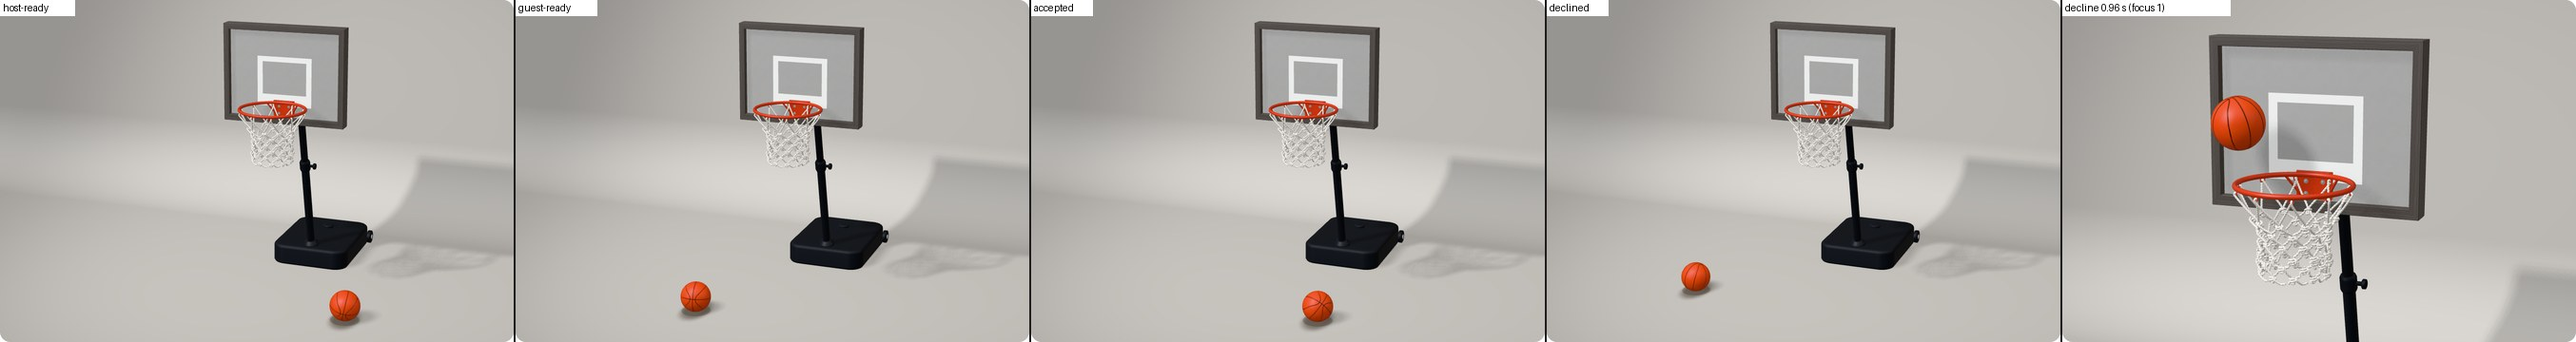
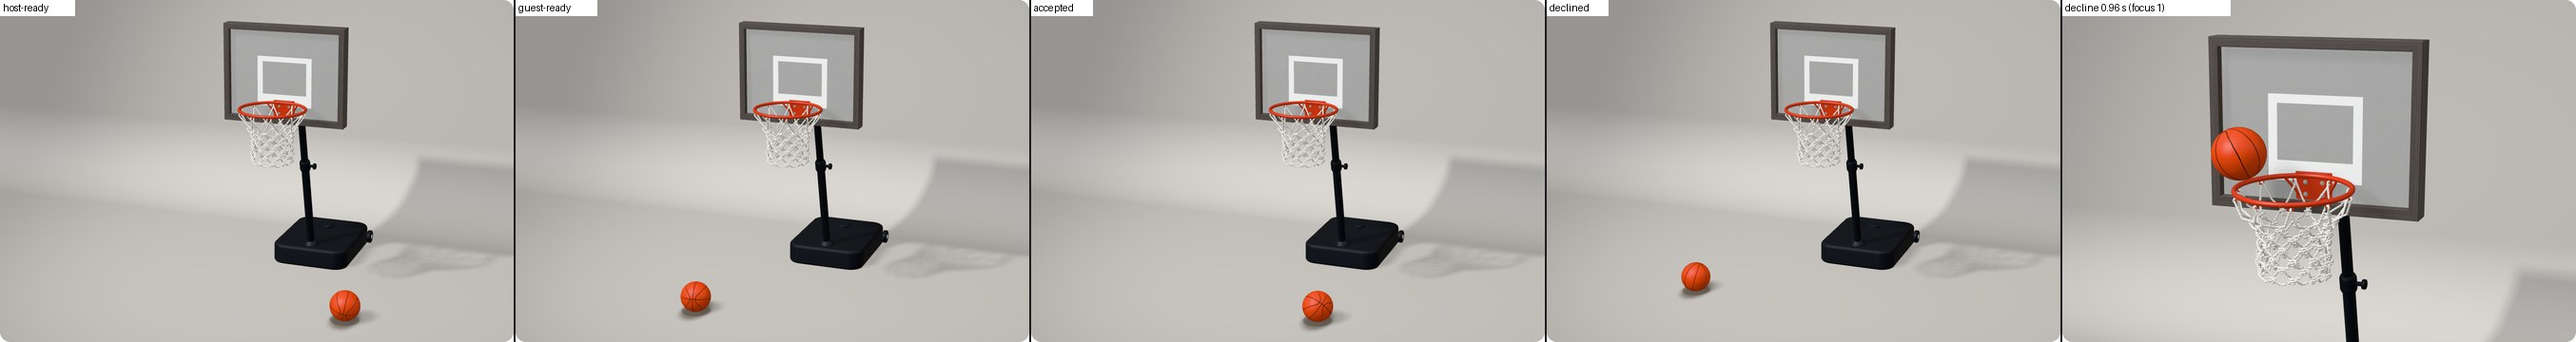
sports polish: the embed stills recaptured after the poster layer (a 3:4 mount now extends the square); the portrait mount's base sliver recorded as a known gap tied to the pending decision on non-square mounts

Changed region(s): [[0.8375, 0.275, 0.9306, 0.7944], [0.8685, 0.0917, 0.9306, 0.1528]]

diff --git a/docs/scenes/sports-v1.7-decline.md b/docs/scenes/sports-v1.7-decline.md
@@ -317,7 +317,7 @@ is airborne. So the camera leans in on it (`src/scenes/sports/focus.ts`):
 
 **What it shows** (the real stage, `controller.framing()`, `tools/focus-stage.ts`, `measurements/focus-stage-*.csv`):
 
-| | 1:1, 3:2 (and every fullscreen frame square) | 3:4 |
+| | 1:1, 3:2 (and every fullscreen frame square) | 3:4 (a per-aspect fit: `framing(0.75)`; a 3:4 mount now frames the square, below) |
 | --- | --- | --- |
 | Zoom (rest distance / focus distance) | **1.68×** (33.86 → 20.20 world units) | 1.60× (the width binds at 0.8) |
 | The hoop's height in the frame | 0.80 | 0.745 |
@@ -386,7 +386,8 @@ than the ones around it would make the one guided bounce read as guided, the ris
   `strips/after-decline-*-0.4-2.4s-every4.jpg`; `strips/after-push-in-laptop-0.4-1.0s-every16ms.jpg`,
   `strips/after-pull-back-laptop-1.55-2.2s-every16ms.jpg`; `strips/change-decline-to-accept-at-1.25s-laptop-every3.jpg`;
   `strips/impact-accent-1x1-0.944-0.976-physics-vs-x2.2-not-adopted.jpg`.
-- `stills/poses-{3x4,1x1,3x2}.jpg` (an embed stage: every pose and the decline at the strike),
+- `stills/poses-{3x4,1x1,3x2}.jpg` (a square-layout mount of that aspect, after the poster layer: every pose and the
+  decline at the strike),
   `stills/poses-{laptop-1280x720,phone-390x844}.jpg`, `stills/focus-1x1-at-the-strike-0.96s.png`.
 - `motion/decline-*.mp4`; `pacing-decline.txt`; `measurements/` (the sway and the focus per 16 ms frame on the stage,
   the loop's idle, the tails); `tools/` (`sway-stage.ts`, `focus-stage.ts`, `framing-probe.ts`, `idle.ts`,
@@ -399,5 +400,13 @@ than the ones around it would make the one guided bounce read as guided, the ris
 - The sway is a rigid pitch about the pole's foot (no bending shape, no twist from the bank's 20 cm offset).
 - The ball is drawn on its track, so it sits ≤ 2.2 mm (≤ 0.9 px at laptop) off the swaying ring during a clang, on
   top of the rim-dip gap.
+- **A portrait square-layout mount (3:4).** The poster layer (cea22a6, merged before the captures) frames a
+  square-layout mount of another aspect like fullscreen: the frame square, the rest of the mount extending the same
+  view. The focus is fitted on that square, so in a 3:4 mount, which shows a sixth of the square more below it, the
+  base's top is back in the bottom **54 of 720 px (7.5 %)** at the strike (`stills/poses-3x4.jpg`, the last cell);
+  landscape (3:2) and 1:1 mounts and the showcase's laptop and phone frames hide it. This follows Surya's pending
+  decision on non-square mounts (RESUME, v1.7 decision 5): if the square framing stays, fit the focus to the mount's
+  free area in the square layout (a window fit in `Stage.fit`, the dolly unchanged); if per-aspect fits come back,
+  the per-aspect focus at 3:4 already hides the base (2 % of the frame below its bottom: the table above).
 - The focus is fitted on the frame square; a fullscreen layout that shows much more below the square than the laptop
   (16 px) or the phone (under the dock) would show the base's top again.
